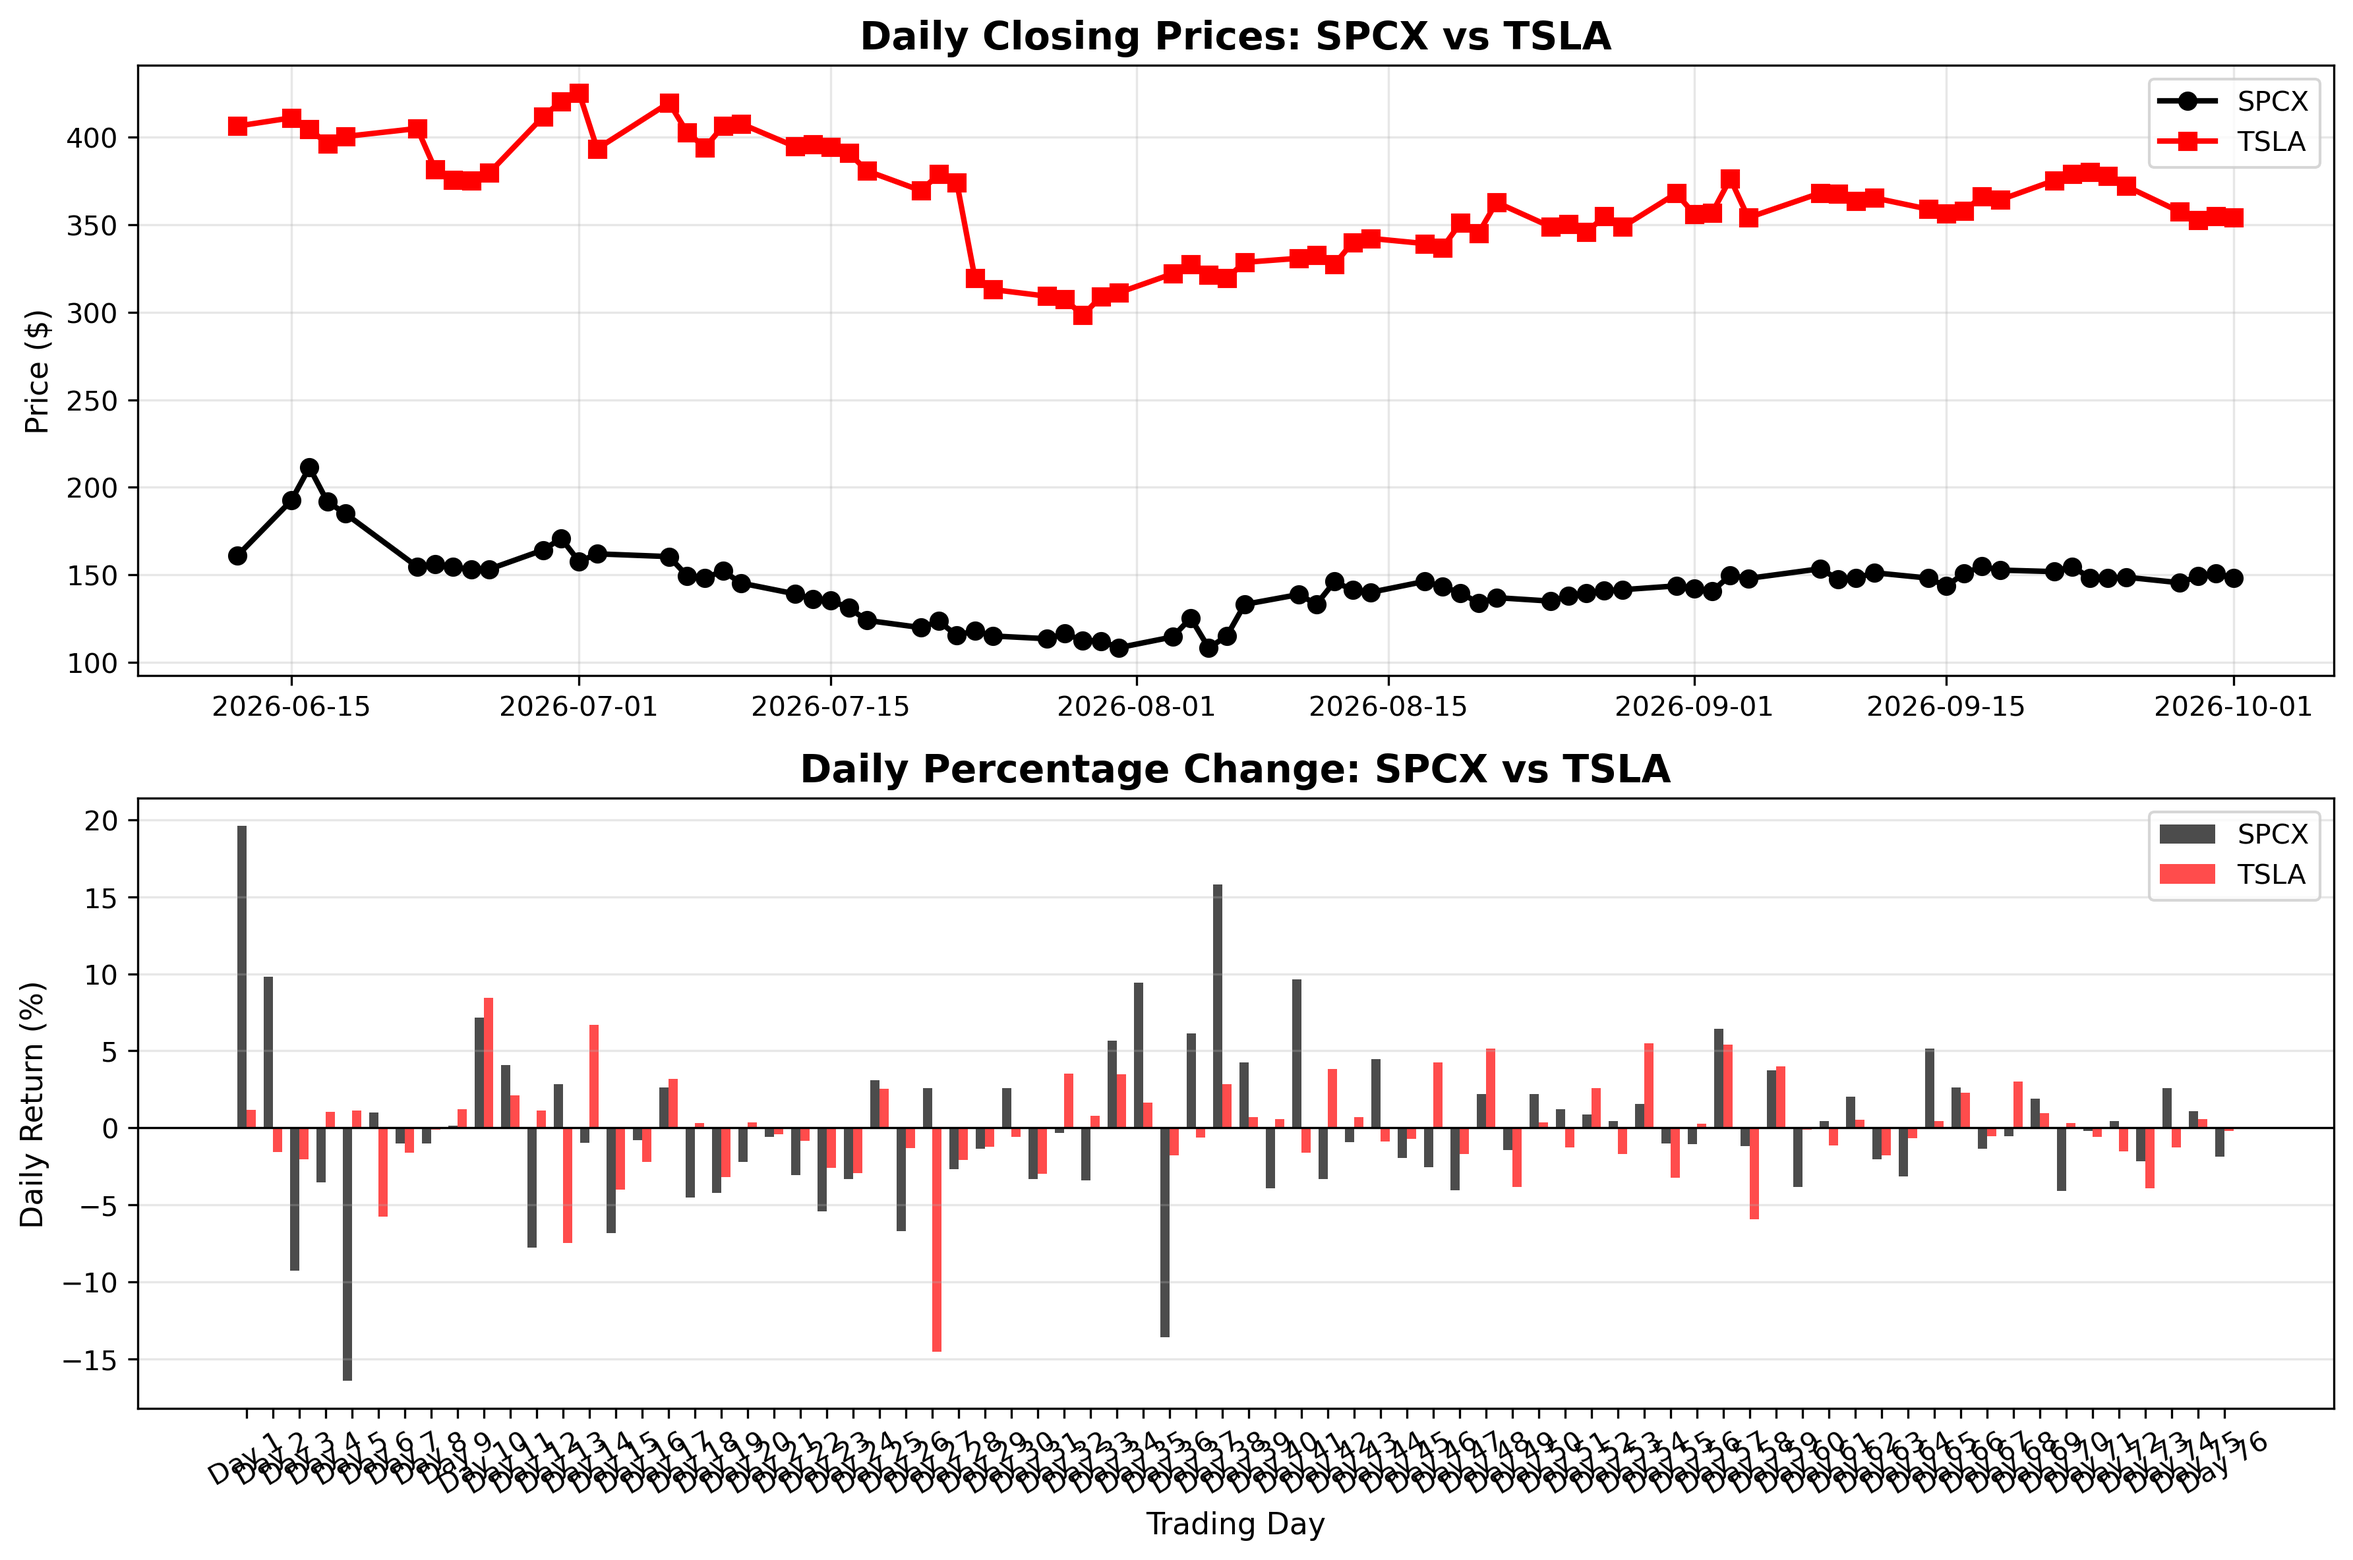
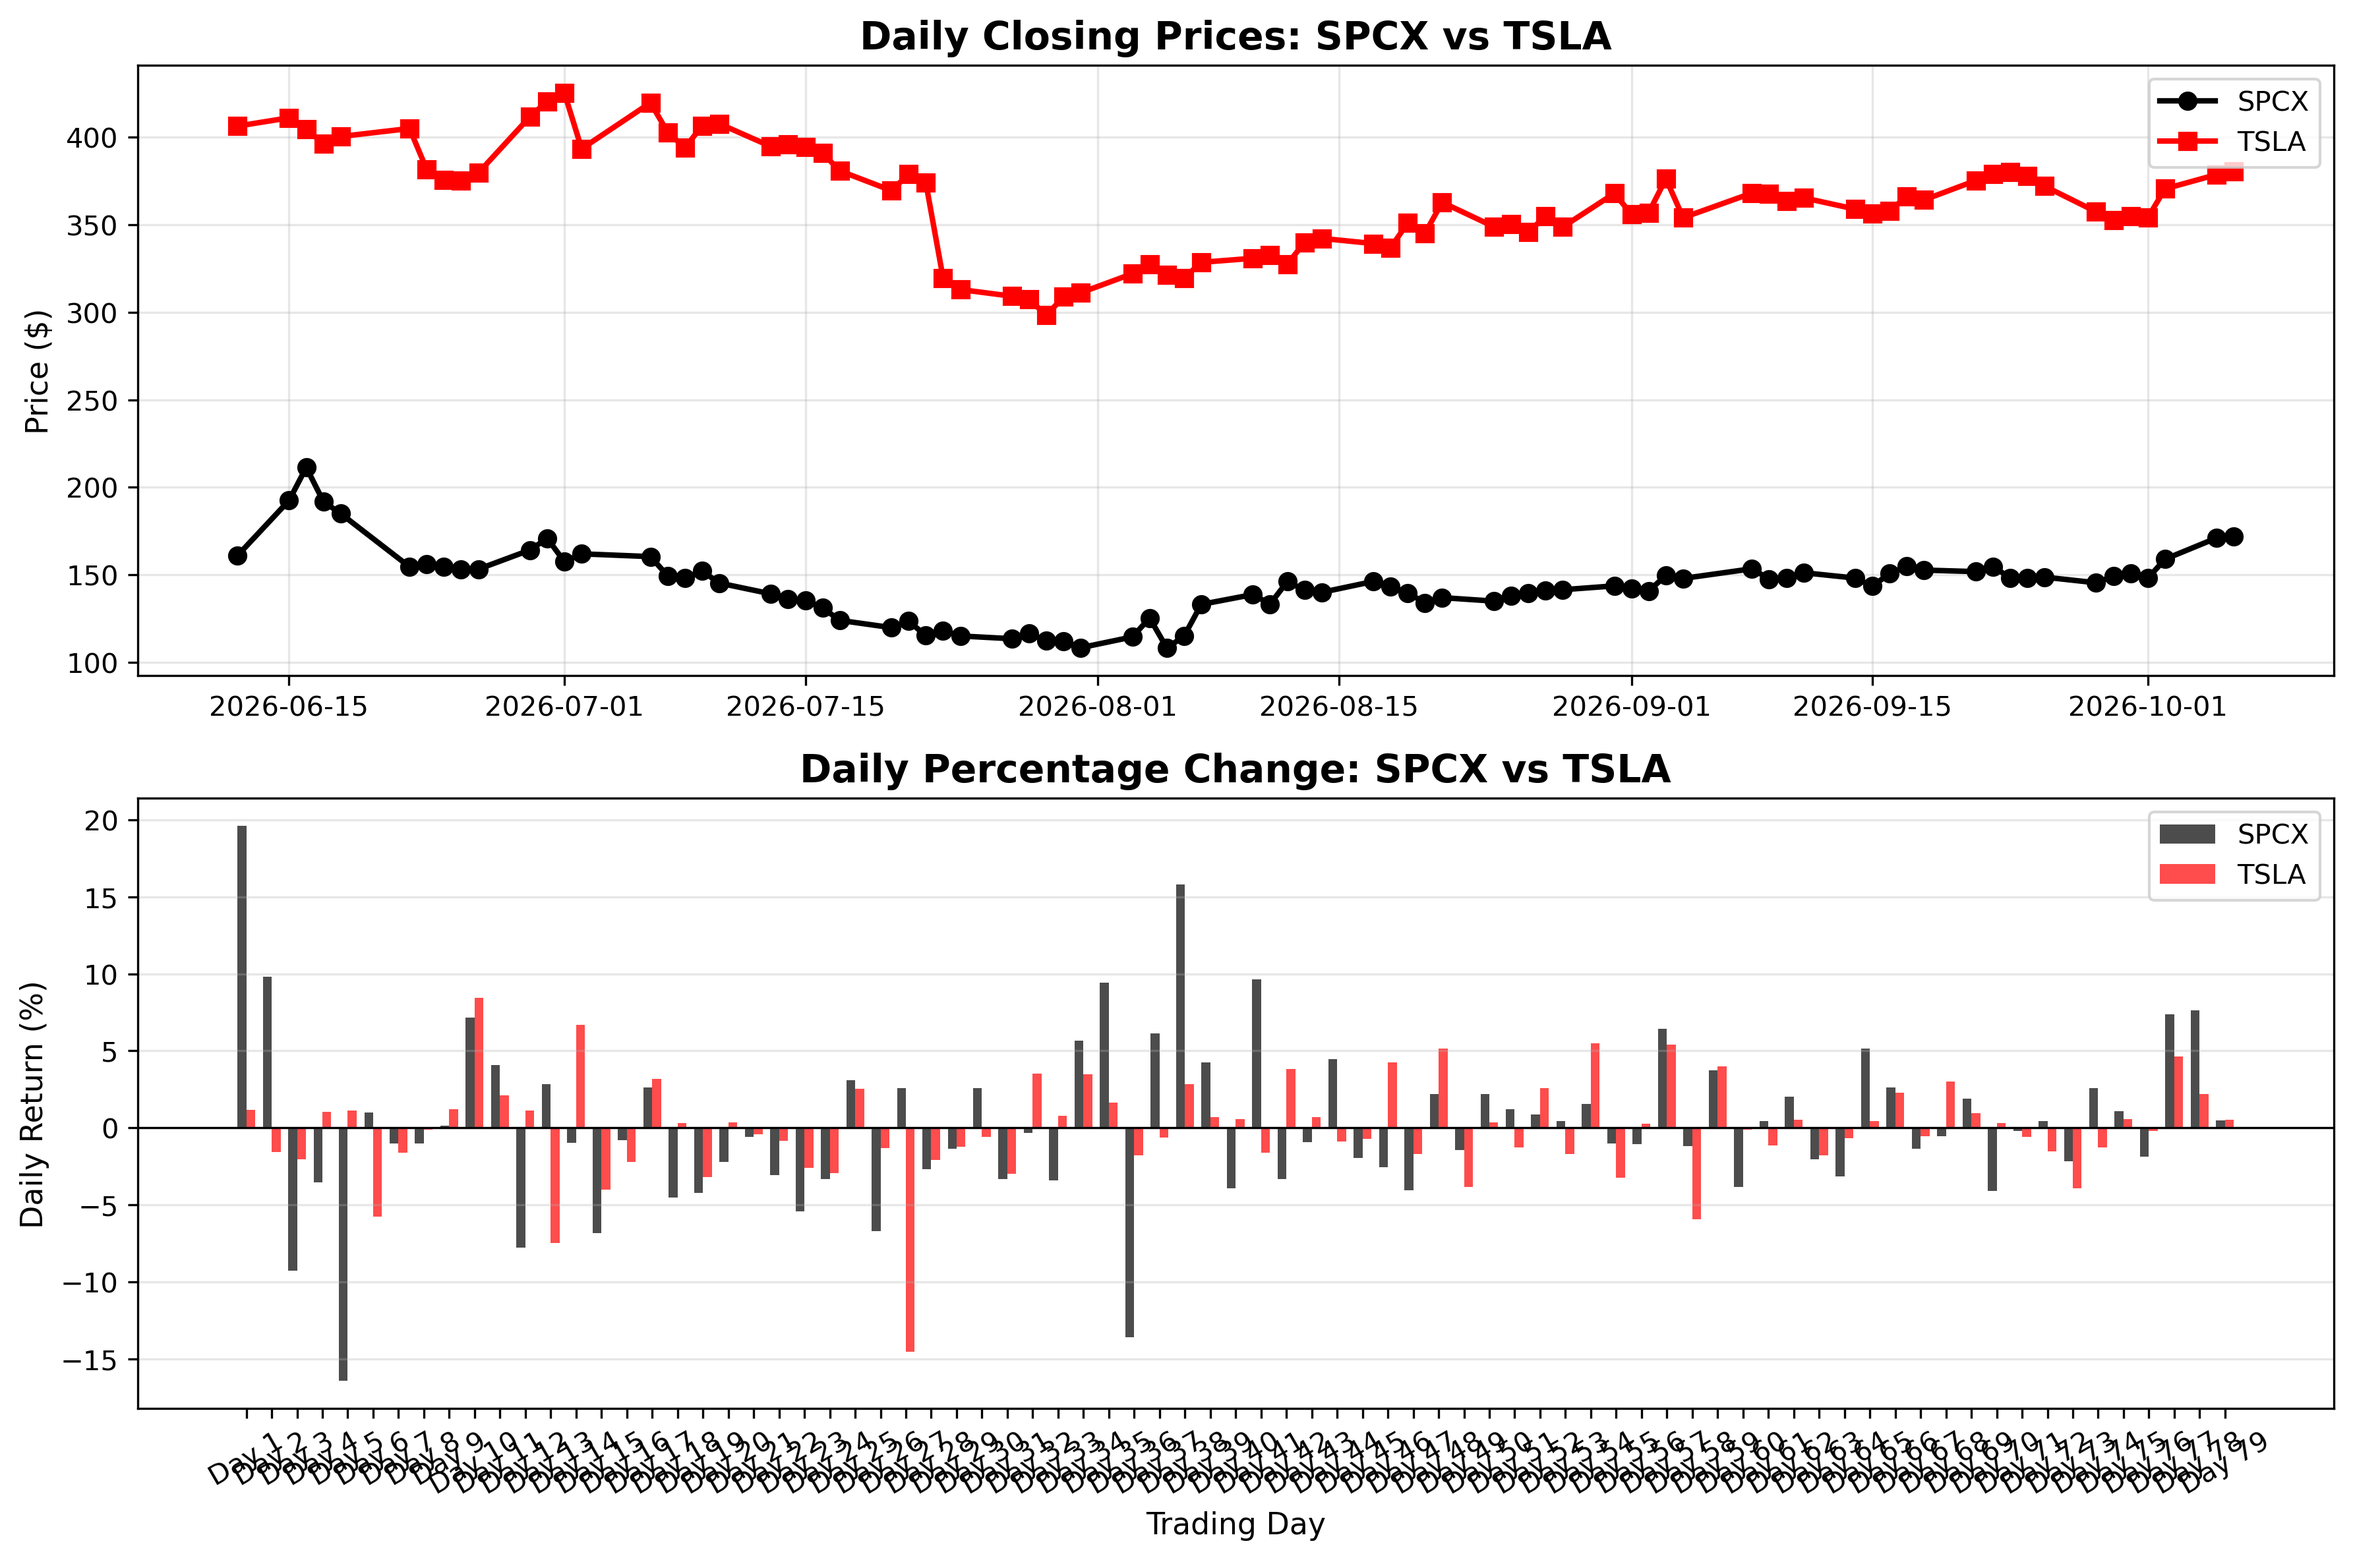
Initial commit

diff --git a/elongate.py b/elongate.py
@@ -5,7 +5,7 @@ import pandas as pd
 # 1. Define the tickers and the timeframe
 tickers = ["TSLA", "SPCX"]
 start_date = "2026-07-01"
-end_date = "2026-10-01"  # Requested inclusive end date
+end_date = "2026-10-06"  # Requested inclusive end date
 
 # yfinance treats the `end` parameter as exclusive. To include `end_date`
 # in the downloaded range, add one day to the end date.

diff --git a/spcx_tsla.py b/spcx_tsla.py
@@ -9,7 +9,7 @@ import yfinance as yf
 
 # Fetch data starting from June 22, 2026
 start_date = "2026-06-12"
-end_date = "2026-10-01"  # Requested inclusive end date 
+end_date = "2026-10-06"  # Requested inclusive end date 
 
 # yfinance treats the `end` parameter as exclusive. To include `end_date`,
 # add one day and use that as the `end` argument.
